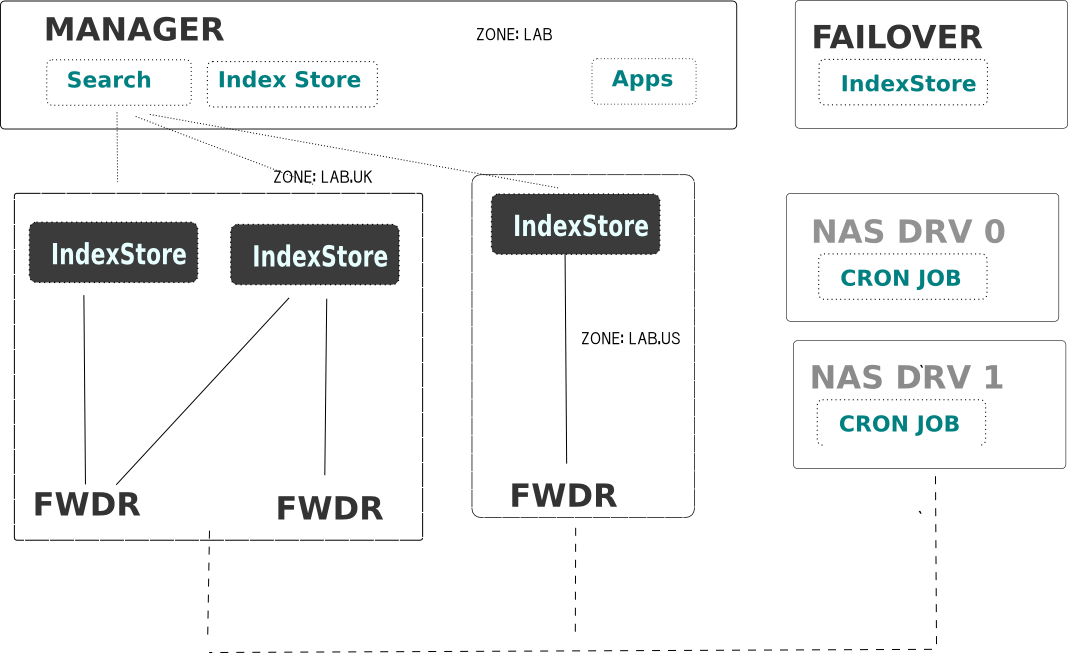
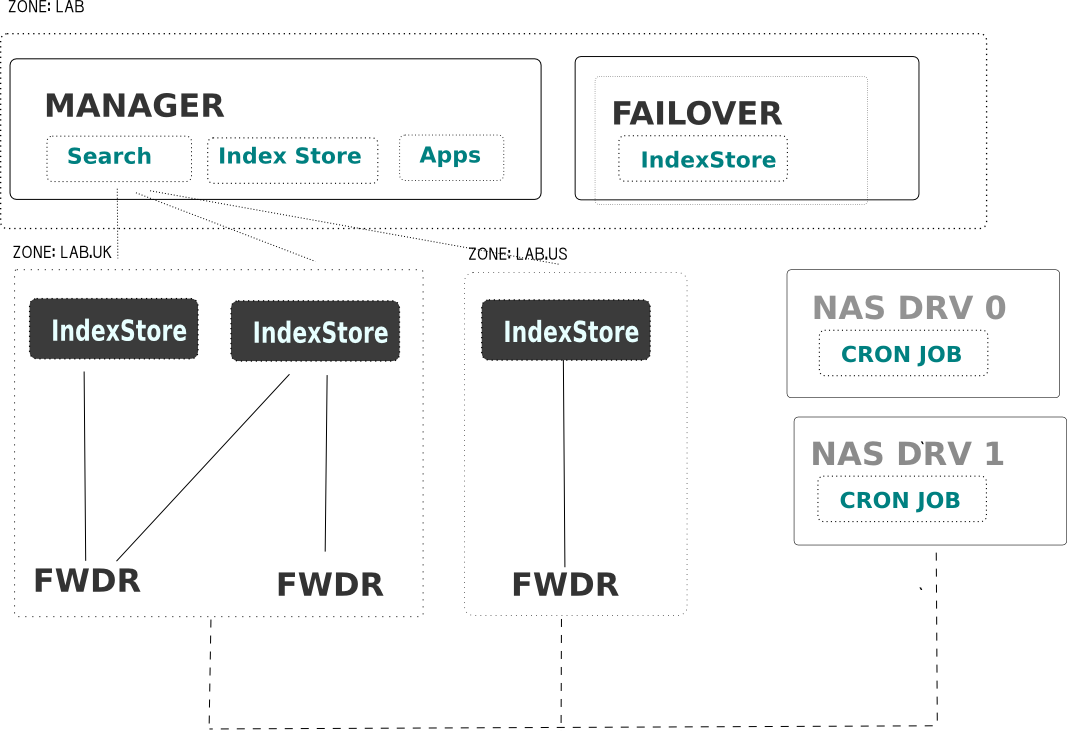
* wording and diagram changes

diff --git a/install-prerequisites.html b/install-prerequisites.html
@@ -1,6 +1,6 @@
 <!DOCTYPE html><html lang="en"><head><title>	Logscape 2.0 	</title><link href="css/bootstrap.min.css" rel="stylesheet"><link href="css/style.css" rel="stylesheet"><script src="js/bootstrap.min.js"></script><script src="js/jquery.js"></script></head><body><div class="container">		<div class="navbar navbar-fixed-top"><div class="navbar-inner"><div class="nav-collapse collapse"><ul class="nav navbar-nav"><li class="active"> Main Support Site </li><li>Explore Logscape Apps </li><li> <a href="">Download </a></li></ul></div><h3>Logscape 2.0  </h3><a href="apps.html"> Applications   	|</a><a href="http://support.liquidlabs.co.uk"> Older Versions (1.3x)</a></div></div></div></body></html><!--<a href="monitoring-start.html">Monitoring Guide |  </a>--><div class="container-fluid"><p> </p><p> </p><br><br><br><p> </p><p> </p><div class="row"><div class="col-md-2 nav-padding"><p> <h3>Getting Started</h3></p><ul><li> <a href="index.html">Getting Started</a><ul><li><a href="searching-video.html">Quick Search Video</a></li><li> <a href="workspaces.html">Create a Workspace Video </a></li></ul></li><li>	<a href="searching-overview.html">	Search Overview</a><ul><li><a href="searching-functions.html">Function Index</a></li></ul></li><li><a href="ds-add.html">How to add data </a><ul><li> <a href="ds-syslog.html">Syslog Devices </a></li></ul></li><li> <a href="deploy.html">How to deploy Apps</a></li><li><a href="alerting.html">Alerting  </a></li><li><a href="releasenotes.html">Release Notes </a></li></ul><p> 
 Installation Guide </p><ul><li>	<a href="install-prerequisites.html">Prerequisites</a></li><li><a href="install-components.html">Components</a></li><li> <a href="install-manager.html">Manager Installation</a></li><li> <a href="install-forwarder.html">Install a Forwarder</a></li><li> <a href="install-indexer.html">Install an Indexer		</a></li><li>	<a href="install-updating.html">Updating Logscape </a></li></ul><p>	
 Common Deployment Scenarios</p><ul><li><a href="using-forwarders.html">Default Scenario </a></li><li><a href="using-forwarders-failover.html">Forwarders + Failover </a></li><li><a href="using-indexstores.html">Multiple IndexStores + Failover</a></li><li><a href="using-indexstores-zones.html">Multiple IndexStores + Zones </a></li><li><a href="using-indexstores-zones-tenured.html">Multiple IndexStores + Zones + Tenured</a></li></ul><p> <a href="apps.html">Logscape Apps</a></p><ul><li> <a href="https://github.com/logscape/windowsapp#windowsapp-10">WindowsApp</a></li><li> <a href="https://github.com/logscape/unixapp#unixapp-10">UnixApp</a></li><li> <a href="https://github.com/logscape/coherenceapp#oraclecoherenceapp-10">Oracle Coherence App</a></li><li> <a href="https://github.com/logscape/javaapp#javaapp-10">JavaApp</a></li><li> <a href="https://github.com/logscape/ciscoapp#ciscoapp-10">Syslog Devices </a></li></ul><p> 
-Contact</p><div><strong> <span>email: <a href="mailto:support@logscape.com">support@logscape.com</a></span></strong><br><strong><span>twitter: <a href="https://twitter.com/logscape">@logscape</a></span></strong></div></div><div class="col-md-10"><br><h4>Checklist </h4><ul class="list"><li>Oracle Java 6 or 7. Use Java6u23 and above. </li><li>Make sure that your firewall is configure correctly. See<a href="install-ports.html"> Port Considerations</a></li><li>Ensure that your servers are clock synced</li><li>The Manager should not be installed on a virtual machine. </li><li>(Unix/Linux) Have sar installed, usually found in the systat package</li><li>Open JDK is not supported. Even though Logscape will start, you may experience performance problems</li><li>Do not install the 32bit MSI or 64-bit Java</li></ul><br><h4>Supported Browsers</h4><ul class="list"> <li>Internet Explore 10</li><li>Firefox 8.0+ </li><li>Google Chrome </li></ul><br><h4>Minimum Hardware Requirements </h4><table class="table"><tr><td>Manager</td><td>Dual Core: 2GHz; 4GB RAM</td></tr><tr><td>Indexer</td><td> 
+Contact</p><div><strong> <span>email: <a href="mailto:support@logscape.com">support@logscape.com</a></span></strong><br><strong><span>twitter: <a href="https://twitter.com/logscape">@logscape</a></span></strong></div></div><div class="col-md-10"><br><h4>Checklist </h4><ul class="list"><li>Oracle Java 6 or 7. Use Java6u23 and above. </li><li>Make sure that your firewall is configure correctly. See<a href="install-ports.html"> Port Considerations</a></li><li>Ensure that your servers are clock synced</li><li>The Manager should not be installed on a virtual machine. </li><li>(Unix/Linux) Have sar installed, usually found in the systat package</li><li>Open JDK is not supported. Even though Logscape will start, you may experience performance problems</li><li>Do not install the 32bit MSI on a 64bit MSI. </li></ul><br><h4>Supported Browsers</h4><ul class="list"> <li>Google Chrome </li><li>Safari </li><li>Internet Explore 10</li><li>Firefox 8.0+</li></ul><br><h4>Recommended Hardware Requirements </h4><table class="table"><tr><td>Manager</td><td>Dual Core: 2GHz; 4GB RAM</td></tr><tr><td>Indexer</td><td> 
 Dual Core CPU:1GHz; 2GB RAM</td></tr><tr><td>IndexStore</td><td> 
-Dual Core CPU:1GHz; 2GB RAM</td></tr><tr> <td><p>Forwarder </p></td><td><p>Single Core CPU; 256MB RAM</p></td></tr></table></div></div></div><script src="js/ga.js"> </script>
+16 Core; 2GHz; 16GB RAM</td></tr><tr> <td><p>Forwarder </p></td><td><p>Single Core CPU; 256MB RAM</p></td></tr></table></div></div></div><script src="js/ga.js"> </script>

diff --git a/using-forwarders-failover.html b/using-forwarders-failover.html
@@ -1,4 +1,4 @@
 <!DOCTYPE html><html lang="en"><head><title>	Logscape 2.0 	</title><link href="css/bootstrap.min.css" rel="stylesheet"><link href="css/style.css" rel="stylesheet"><script src="js/bootstrap.min.js"></script><script src="js/jquery.js"></script></head><body><div class="container">		<div class="navbar navbar-fixed-top"><div class="navbar-inner"><div class="nav-collapse collapse"><ul class="nav navbar-nav"><li class="active"> Main Support Site </li><li>Explore Logscape Apps </li><li> <a href="">Download </a></li></ul></div><h3>Logscape 2.0  </h3><a href="apps.html"> Applications   	|</a><a href="http://support.liquidlabs.co.uk"> Older Versions (1.3x)</a></div></div></div></body></html><!--<a href="monitoring-start.html">Monitoring Guide |  </a>--><div class="container-fluid"><p> </p><p> </p><br><br><br><p> </p><p> </p><div class="row"><div class="col-md-2 nav-padding"><p> <h3>Getting Started</h3></p><ul><li> <a href="index.html">Getting Started</a><ul><li><a href="searching-video.html">Quick Search Video</a></li><li> <a href="workspaces.html">Create a Workspace Video </a></li></ul></li><li>	<a href="searching-overview.html">	Search Overview</a><ul><li><a href="searching-functions.html">Function Index</a></li></ul></li><li><a href="ds-add.html">How to add data </a><ul><li> <a href="ds-syslog.html">Syslog Devices </a></li></ul></li><li> <a href="deploy.html">How to deploy Apps</a></li><li><a href="alerting.html">Alerting  </a></li><li><a href="releasenotes.html">Release Notes </a></li></ul><p> 
 Installation Guide </p><ul><li>	<a href="install-prerequisites.html">Prerequisites</a></li><li><a href="install-components.html">Components</a></li><li> <a href="install-manager.html">Manager Installation</a></li><li> <a href="install-forwarder.html">Install a Forwarder</a></li><li> <a href="install-indexer.html">Install an Indexer		</a></li><li>	<a href="install-updating.html">Updating Logscape </a></li></ul><p>	
 Common Deployment Scenarios</p><ul><li><a href="using-forwarders.html">Default Scenario </a></li><li><a href="using-forwarders-failover.html">Forwarders + Failover </a></li><li><a href="using-indexstores.html">Multiple IndexStores + Failover</a></li><li><a href="using-indexstores-zones.html">Multiple IndexStores + Zones </a></li><li><a href="using-indexstores-zones-tenured.html">Multiple IndexStores + Zones + Tenured</a></li></ul><p> <a href="apps.html">Logscape Apps</a></p><ul><li> <a href="https://github.com/logscape/windowsapp#windowsapp-10">WindowsApp</a></li><li> <a href="https://github.com/logscape/unixapp#unixapp-10">UnixApp</a></li><li> <a href="https://github.com/logscape/coherenceapp#oraclecoherenceapp-10">Oracle Coherence App</a></li><li> <a href="https://github.com/logscape/javaapp#javaapp-10">JavaApp</a></li><li> <a href="https://github.com/logscape/ciscoapp#ciscoapp-10">Syslog Devices </a></li></ul><p> 
-Contact</p><div><strong> <span>email: <a href="mailto:support@logscape.com">support@logscape.com</a></span></strong><br><strong><span>twitter: <a href="https://twitter.com/logscape">@logscape</a></span></strong></div></div><div class="col-md-10"><h1>Deploying Forwarders + Failover</h1><p>	The Failover provides services if communication between the Forwarders and the Manager is lost. The forwarder is activiely used like the manager when connectivity to the Manager is lost. </p><br><div class="image"> <img src="images/deployment_forwarders_failover.png"></div><br><p>The Failover runs exactly the same services that the Manager does, including the IndexStores. </p><p>This means that data is collected while the Manager is down. 	</p><br></div></div></div><script src="js/ga.js"> </script>
+Contact</p><div><strong> <span>email: <a href="mailto:support@logscape.com">support@logscape.com</a></span></strong><br><strong><span>twitter: <a href="https://twitter.com/logscape">@logscape</a></span></strong></div></div><div class="col-md-10"><h1>Deploying Forwarders + Failover</h1><p>	The Failover provides highly available services that work in conjuction with the Manager. If either the Manager or the Failover is lost, then the other will assume full operational responsilbities. i.e alerts, reports etc. Forwarders will use whatever IndexStores are currently available. </p><br><div class="image"> <img src="images/deployment_forwarders_failover.png"></div><br><p>The Failover runs exactly the same services that the Manager does, including the IndexStores. </p><p>This means that data is collected while the Manager is down. 	</p><br></div></div></div><script src="js/ga.js"> </script>
